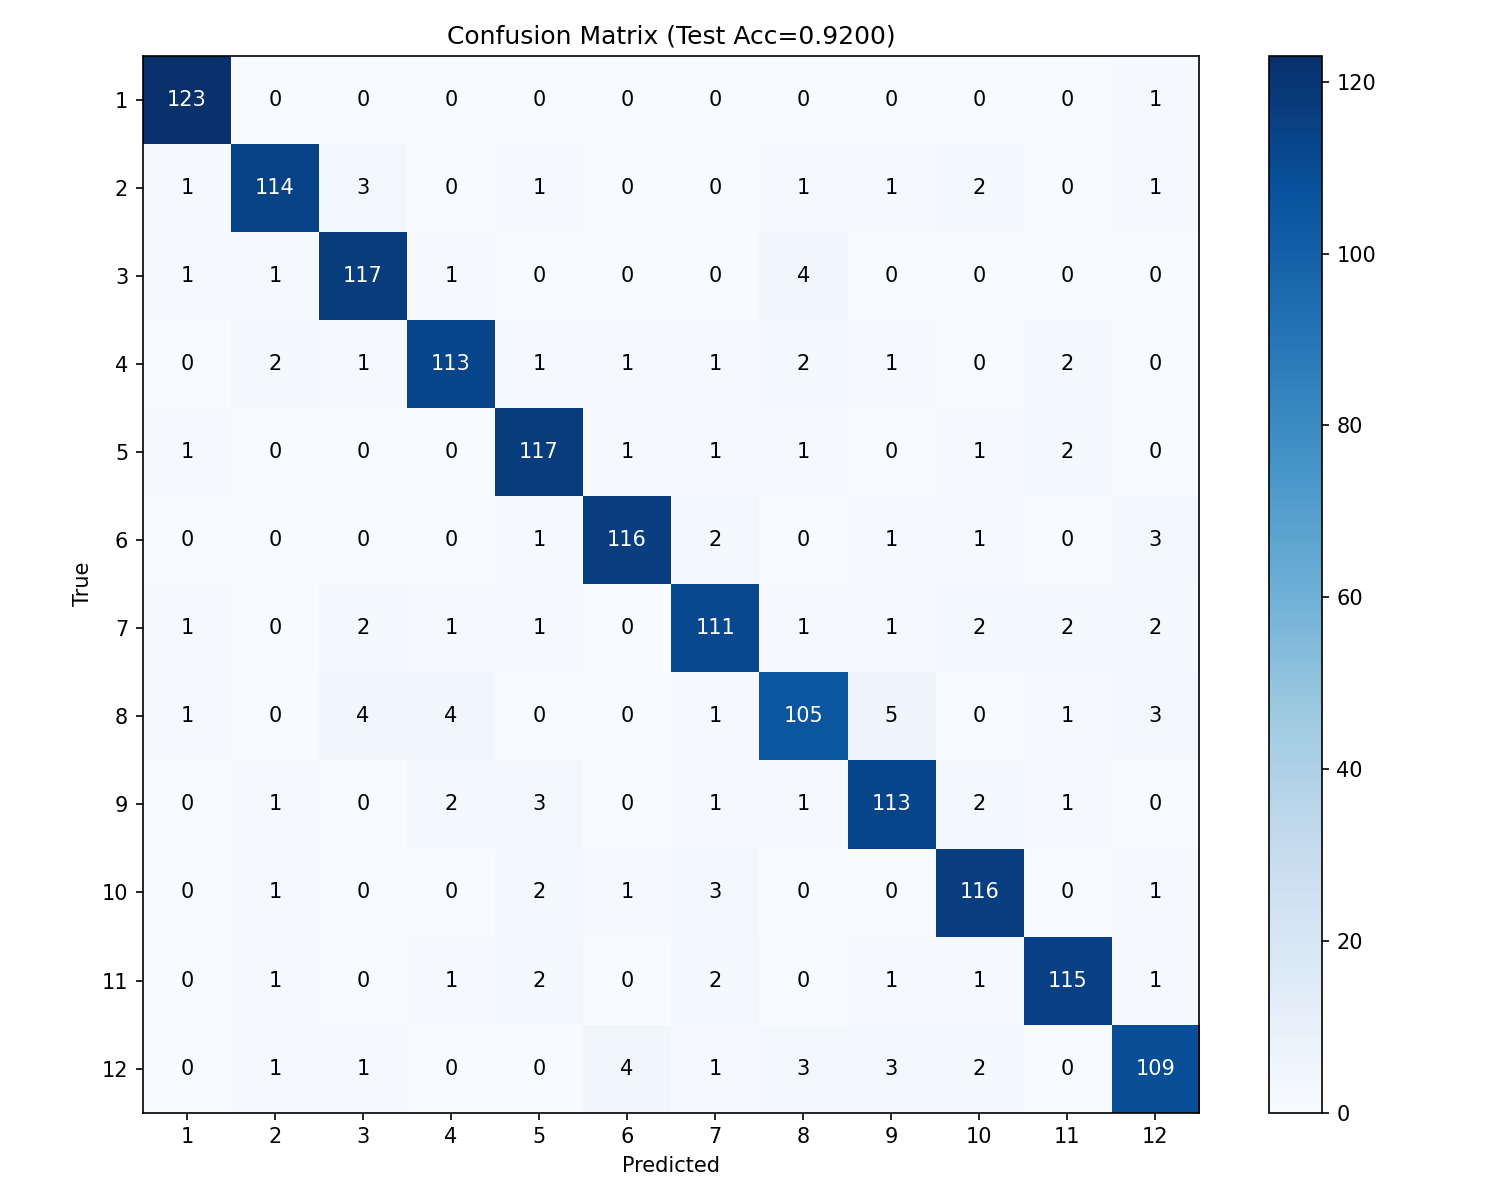
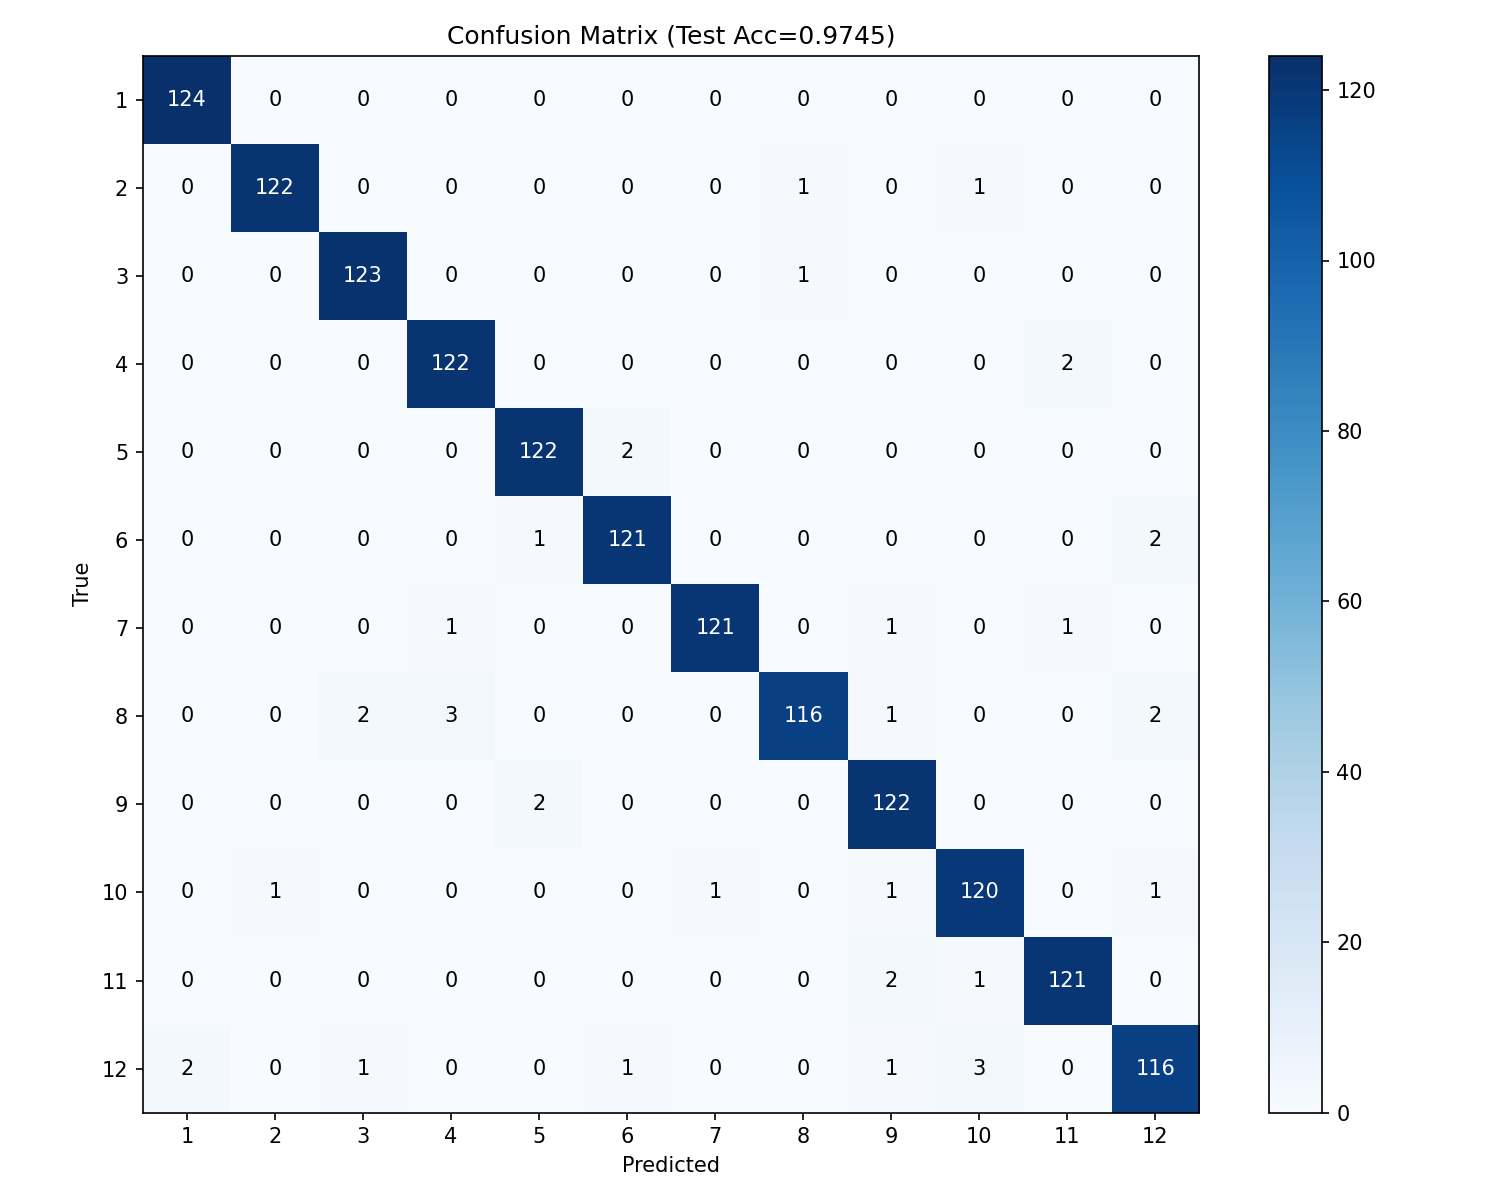
feat: augmented data to prevent overfitting

diff --git a/part1/classification.py b/part1/classification.py
@@ -49,6 +49,36 @@ def load_data(data_dir, img_size=28):
     return X, y_onehot, labels
 
 
+def augment_batch(X_batch, img_size=28):
+    """
+    On-the-fly data augmentation for a batch of flattened images.
+    Applies random shifts, small rotations, and noise.
+    """
+    batch_size = X_batch.shape[0]
+    augmented = np.empty_like(X_batch)
+
+    for i in range(batch_size):
+        img = X_batch[i].reshape(img_size, img_size)
+
+        # Random shift (-2 to +2 pixels)
+        dx, dy = np.random.randint(-2, 3), np.random.randint(-2, 3)
+        shifted = np.zeros_like(img)
+        src_x = slice(max(0, dx), min(img_size, img_size + dx))
+        src_y = slice(max(0, dy), min(img_size, img_size + dy))
+        dst_x = slice(max(0, -dx), min(img_size, img_size - dx))
+        dst_y = slice(max(0, -dy), min(img_size, img_size - dy))
+        shifted[dst_y, dst_x] = img[src_y, src_x]
+
+        # Random noise
+        if np.random.rand() < 0.5:
+            noise = np.random.randn(img_size, img_size) * 0.02
+            shifted = np.clip(shifted + noise, 0, 1)
+
+        augmented[i] = shifted.flatten()
+
+    return augmented
+
+
 def train_test_split(X, y_onehot, labels, test_ratio=0.2, seed=42):
     """Split data into train and test sets, stratified by class."""
     rng = np.random.RandomState(seed)
@@ -93,35 +123,40 @@ def main():
     X, y_onehot, labels = load_data(data_dir)
     print(f"Total samples: {X.shape[0]}, Features: {X.shape[1]}, Classes: {y_onehot.shape[1]}")
 
-    X_train, y_train, X_test, y_test, test_labels = train_test_split(X, y_onehot, labels, test_ratio=0.2)
+    X_train, y_train, X_test, y_test, test_labels = train_test_split(
+        X, y_onehot, labels, test_ratio=0.2)
     print(f"Train: {X_train.shape[0]}, Test: {X_test.shape[0]}")
 
     input_dim = X.shape[1]  # 784
     num_classes = 12
 
     net = Network([
-        ('linear', input_dim, 256),
+        ('linear', input_dim, 512),
+        ('batchnorm', 512),
+        ('relu',),
+        ('dropout', 0.4),
+        ('linear', 512, 256),
         ('batchnorm', 256),
         ('relu',),
-        ('dropout', 0.3),
+        ('dropout', 0.4),
         ('linear', 256, 128),
         ('batchnorm', 128),
         ('relu',),
         ('dropout', 0.3),
-        ('linear', 128, 64),
-        ('batchnorm', 64),
-        ('relu',),
-        ('linear', 64, num_classes),
+        ('linear', 128, num_classes),
         ('softmax',),
-    ], loss='cross_entropy', optimizer='adam', lr=0.001, weight_init='he')
+    ], loss='cross_entropy', optimizer='adam', lr=0.001,
+       weight_init='he', weight_decay=1e-4)
 
-    scheduler = StepLRScheduler(net.optimizer, step_size=30, gamma=0.5)
+    scheduler = StepLRScheduler(net.optimizer, step_size=40, gamma=0.5)
 
     print("\nTraining...")
-    epochs = 100
+    epochs = 200
     batch_size = 64
+    best_test_acc = 0.0
 
     for epoch in range(1, epochs + 1):
+        net.train_mode()
         n = X_train.shape[0]
         indices = np.random.permutation(n)
         X_shuffled = X_train[indices]
@@ -133,7 +168,11 @@ def main():
             end = min(start + batch_size, n)
             xb = X_shuffled[start:end]
             yb = y_shuffled[start:end]
-            loss = net.train_step(xb, yb)
+
+            # Apply data augmentation in [0,1] pixel space
+            xb_aug = augment_batch(xb)
+
+            loss = net.train_step(xb_aug, yb)
             epoch_loss += loss
             n_batches += 1
 
@@ -142,6 +181,7 @@ def main():
         if epoch % 10 == 0 or epoch == 1:
             train_acc, train_loss = evaluate(net, X_train, y_train)
             test_acc, test_loss = evaluate(net, X_test, y_test)
+            best_test_acc = max(best_test_acc, test_acc)
             print(f"Epoch {epoch}/{epochs}  "
                   f"train_loss={epoch_loss/n_batches:.4f} train_acc={train_acc:.4f}  "
                   f"test_loss={test_loss:.4f} test_acc={test_acc:.4f}  "
@@ -150,9 +190,11 @@ def main():
     # Final evaluation
     train_acc, _ = evaluate(net, X_train, y_train)
     test_acc, _ = evaluate(net, X_test, y_test)
+    best_test_acc = max(best_test_acc, test_acc)
     print(f"\n=== Final Results ===")
     print(f"Train Accuracy: {train_acc:.4f}")
     print(f"Test Accuracy:  {test_acc:.4f}")
+    print(f"Best Test Acc:  {best_test_acc:.4f}")
 
     # Per-class accuracy
     pred = net.predict(X_test)
